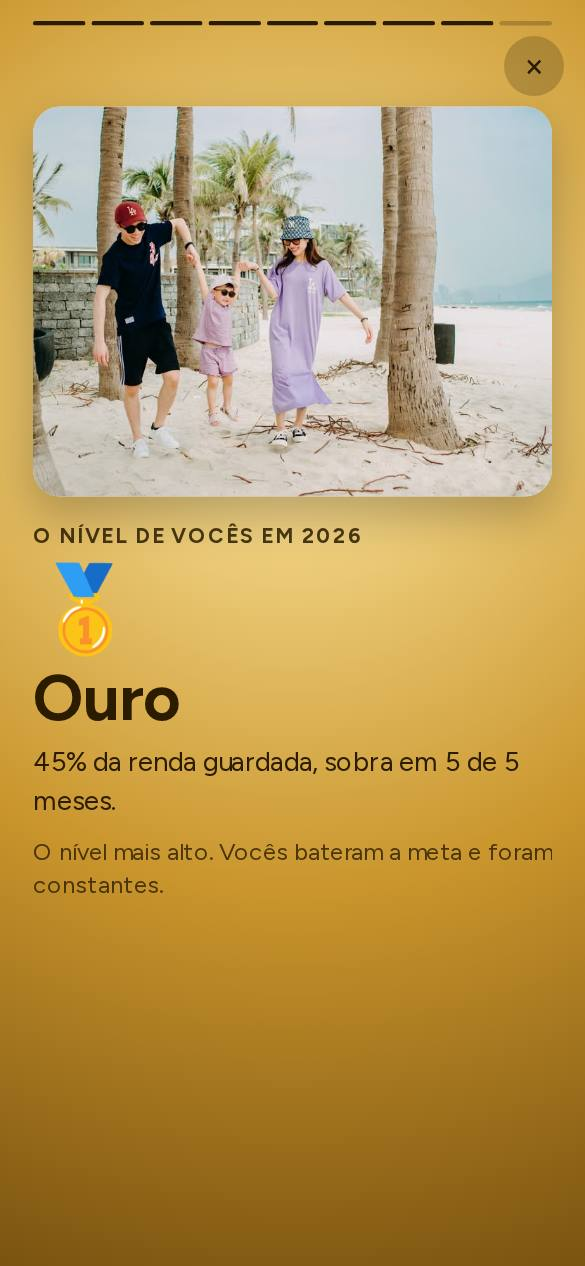
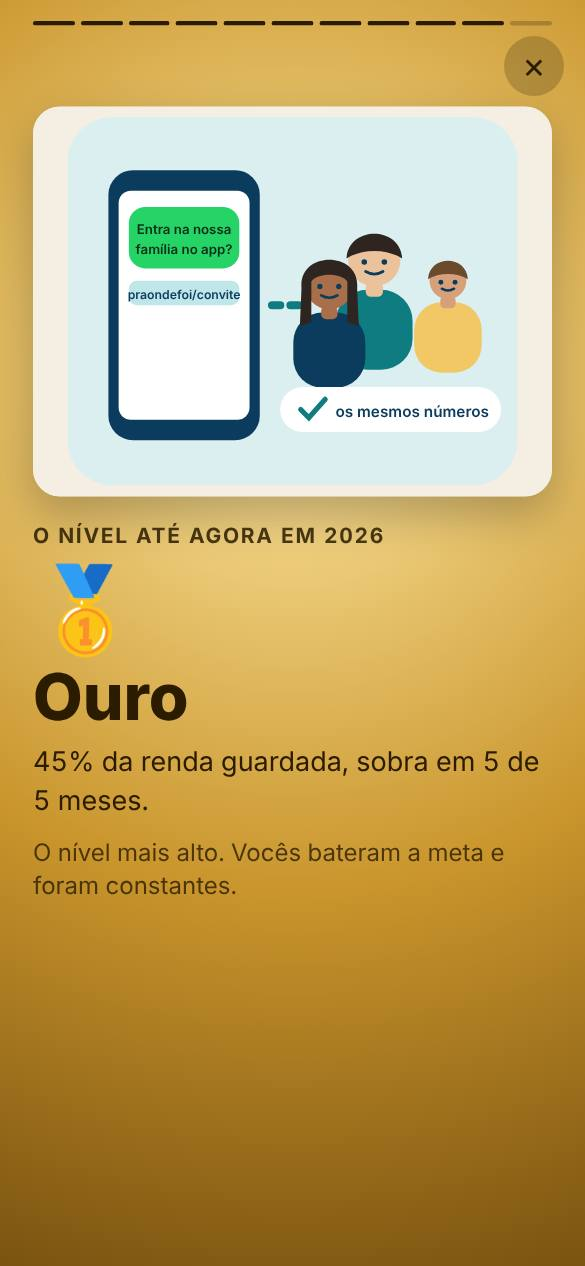
v97: year retrospective updated at every closed month (3+ complete months), first-time screen, evolution and where to improve, year-end edition in January
Claude-Session: https://claude.ai/code/session_01HTxyDPPEQrF1SknoQ9axHM

diff --git a/public/js/wrapped.js b/public/js/wrapped.js
@@ -2,7 +2,7 @@
 // One idea per screen, big number, its own color; tap right/left (or swipe) to move, progress bars on top.
 // The level (bronze, silver, gold, by percentage) is the high point; the last screen shares without amounts.
 import { S, goals, settings, patrimonio, projectFor, needPmtFor } from './state.js';
-import { yearRetro, yearLevel, yearMilestones } from './lib/closing.js';
+import { yearRetro, yearLevel, yearMilestones, yearOpportunities, yearEvolution } from './lib/closing.js';
 import { feesOf } from './lib/bankfees.js';
 import { brl0, pct, esc, mLong } from './lib/format.js';
 import { toast } from './ui.js';
@@ -12,14 +12,33 @@ import { track } from './usage.js';
 const MES = k => mLong(k).split(' de ')[0];
 const cap = s => s[0].toUpperCase() + s.slice(1);
 
+// The month that closes the year so far ("até outubro"), and whether the year is complete (the year-end edition).
+export const retroUpTo = r => r.months[r.months.length - 1];
+const firstTime = () => { try { return !Object.keys(localStorage).some(k => k.startsWith(`fin.retro.${S.hh?.id || ''}.`)); } catch (e) { return false; } };
+
+// Which edition the family has to see: it changes every time a month of the year is closed ("até outubro").
+// Without any closed month, the first one appears once there are 3 complete months.
+export function retroVersion(year) { return Object.keys(settings().closed || {}).filter(k => k.startsWith(year + '-')).sort().pop() || 'base'; }
+export function retroSeen(year) { try { return localStorage.getItem(`fin.retro.${S.hh?.id || ''}.${year}`) === retroVersion(year); } catch (e) { return false; } }
+
+// Savings rate per month, with the goal line: the year's evolution at a glance.
+function evoSVG(e, meta) {
+  const W = 320, H = 150, n = e.months.length, bw = W / n * 0.62, mx = Math.max(0.3, ...e.months.map(m => m.tx)), mn = Math.min(0, ...e.months.map(m => m.tx));
+  const y = v => 10 + (mx - v) / (mx - mn) * (H - 30), z = y(0);
+  return `<svg class="w-evo" viewBox="0 0 ${W} ${H}" role="img" aria-label="Quanto guardaram em cada mês">${meta ? `<line x1="0" x2="${W}" y1="${y(meta)}" y2="${y(meta)}" stroke="currentColor" stroke-dasharray="4 4" opacity=".6"/>` : ''}<line x1="0" x2="${W}" y1="${z}" y2="${z}" stroke="currentColor" opacity=".5"/>
+    ${e.months.map((m, i) => { const x = i * W / n + (W / n - bw) / 2, top = Math.min(y(m.tx), z), h = Math.max(2, Math.abs(y(m.tx) - z)); return `<rect x="${x.toFixed(1)}" y="${top.toFixed(1)}" width="${bw.toFixed(1)}" height="${h.toFixed(1)}" rx="3" fill="${m.tx < 0 ? '#FFB4B4' : 'currentColor'}"/><text x="${(x + bw / 2).toFixed(1)}" y="${H - 4}" text-anchor="middle" font-size="11" fill="currentColor">${MES(m.month).slice(0, 1).toUpperCase()}</text>`; }).join('')}</svg>`;
+}
+
 export function wrappedSlides(year) {
   const G = goals(), st = settings();
   const r = yearRetro({ year, txs: S.txs, idx: S.catIdx, goals: G, fees: feesOf(S.txs.filter(t => t.month.startsWith(year + '-'))), closed: st.closed || {} });
   if (!r.n) return { r, slides: [] };
   const lv = yearLevel(r), ms = yearMilestones({ year, per: r.per, txs: S.txs, idx: S.catIdx, debts: st.debts || [] });
   const fam = /^fam[ií]lia\b/i.test(S.hh.name || '') ? S.hh.name : 'família ' + (S.hh.name || '');
-  const slides = [];
-  slides.push({ bg: 'w-intro', img: 'y_intro', html: `<p class="w-k">Retrospectiva</p><h2 class="w-h">O ${year} da ${esc(fam)}</h2><p class="w-t">${r.n === 12 ? 'O ano inteiro' : `${r.n} meses`} de números de verdade: ${r.count.toLocaleString('pt-BR')} lançamentos, ${r.closedCount ? `${r.closedCount} ${r.closedCount > 1 ? 'meses fechados' : 'mês fechado'}` : 'sem anotar nada à mão'}.</p><p class="w-tap">Toque para continuar →</p>` });
+  const slides = [], final = r.n === 12 || (retroUpTo(r) === year + '-12'), upTo = MES(retroUpTo(r)), first = firstTime();
+  // First time: what this is and how it works, before any number.
+  if (first) slides.push({ bg: 'w-intro', img: 'y_intro', html: `<p class="w-k">A primeira retrospectiva de vocês</p><h2 class="w-h">O que os seus meses contam</h2><p class="w-t">Com os meses que vocês já mandaram, o app montou o ano até aqui: quanto guardaram, os marcos, o nível e onde dá para melhorar.</p><p class="w-t w-dim">A cada mês fechado, ela se atualiza. Em janeiro vem o fechamento do ano, completo.</p><p class="w-tap">Toque para continuar →</p>` });
+  slides.push({ bg: final ? 'w-final' : 'w-intro', img: first ? null : 'y_intro', html: `<p class="w-k">${final ? 'Fechamento do ano' : `Retrospectiva até ${upTo}`}</p><h2 class="w-h">O ${year} da ${esc(fam)}</h2><p class="w-t">${r.n === 12 ? 'O ano inteiro' : `${r.n} meses`} de números de verdade: ${r.count.toLocaleString('pt-BR')} lançamentos, ${r.closedCount ? `${r.closedCount} ${r.closedCount > 1 ? 'meses fechados' : 'mês fechado'}` : 'sem anotar nada à mão'}.</p><p class="w-tap">Toque para continuar →</p>` });
   slides.push({ bg: r.res >= 0 ? 'w-green' : 'w-red', img: r.res >= 0 ? 'y_saved' : 'y_red', html: `<p class="w-k">Vocês guardaram</p><div class="w-big">${brl0(r.res)}</div><p class="w-t">${pct(r.tx)} do que ganharam${r.meta ? `. A meta era ${pct(r.meta)}` : ''}.</p><p class="w-t">Em ${r.positive} de ${r.n} meses sobrou dinheiro.</p>` });
   if (r.best) slides.push({ bg: 'w-blue', img: r.best.res > 0 ? 'y_best' : 'y_red', html: `<p class="w-k">O melhor mês</p><div class="w-big">${cap(MES(r.best.month))}</div><p class="w-t">${brl0(r.best.res)} de sobra.</p>${r.worst && r.worst.month !== r.best.month ? `<p class="w-t w-dim">O mais difícil foi ${MES(r.worst.month)} (${brl0(r.worst.res)}).</p>` : ''}` });
   if (r.top.length) slides.push({ bg: 'w-orange', img: 'y_where', html: `<p class="w-k">Para onde mais foi</p><div class="w-big w-mid">${esc(r.top[0].name)}</div><p class="w-t">${brl0(r.top[0].value)}, ${pct(r.top[0].share)} das despesas.</p><ol class="w-list">${r.top.slice(1, 5).map(t => `<li>${esc(t.name)} <span>${brl0(t.value)}</span></li>`).join('')}</ol>` });
@@ -37,17 +56,23 @@ export function wrappedSlides(year) {
     slides.push({ bg: 'w-teal', img: 'y_home', html: `<p class="w-k">O patrimônio de vocês hoje</p><div class="w-big">${brl0(P.total)}</div>${inv ? `<p class="w-t w-dim">Investimentos: ${brl0(inv.value)}${/estimado/.test(inv.note) ? ' (estimado)' : ''}.</p>` : ''}${dream}` });
   }
   if (ms.length) slides.push({ bg: 'w-pink', img: 'y_moments', html: `<p class="w-k">Os marcos do ano</p><ul class="w-ms">${ms.map(m => `<li><span class="w-mi">${m.icon}</span><span><strong>${esc(m.title)}</strong><br>${esc(m.text)}</span></li>`).join('')}</ul>` });
+  // Evolution through the year (4 months or more).
+  const evo = yearEvolution(r);
+  if (evo) { const better = evo.second > evo.first + 0.01, worse = evo.second < evo.first - 0.01; slides.push({ bg: 'w-blue', html: `<p class="w-k">A evolução no ano</p>${evoSVG(evo, r.meta)}<p class="w-t">${better ? `Melhoraram: de ${pct(evo.first)} para ${pct(evo.second)} da renda guardada, da primeira para a segunda metade.` : worse ? `Caiu de ${pct(evo.first)} para ${pct(evo.second)} da renda guardada, da primeira para a segunda metade.` : `Constantes: cerca de ${pct(evo.second)} da renda guardada nas duas metades.`}</p>${r.meta ? '<p class="w-t w-dim">A linha tracejada é a meta de vocês.</p>' : ''}` }); }
+  // Where they can do better: for everyone, first for whoever was in the red.
+  const ops = yearOpportunities({ r, txs: S.txs, idx: S.catIdx });
+  if (ops.length) slides.push({ bg: r.res < 0 || r.positive < r.n ? 'w-orange' : 'w-teal', html: `<p class="w-k">${r.res < 0 ? 'O caminho para sair do vermelho' : 'Onde dá para melhorar'}</p><ul class="w-ms">${ops.map(o => `<li><span class="w-mi">${o.icon}</span><span><strong>${esc(o.title)}</strong><br>${esc(o.text)}</span></li>`).join('')}</ul>` });
   // The level: the high point.
   const nxt = lv.next ? (lv.next.level === 'ouro' ? `Para o ouro: guardar ${pct(r.meta || 0.2)} da renda${lv.next.steady ? '' : ' e ter sobra em 3 de cada 4 meses'}. Faltam ${Math.max(1, Math.round(lv.next.points * 100))} pontos.` : lv.next.level === 'prata' ? `Para a prata: guardar 10% da renda. Faltam ${Math.max(1, Math.round(lv.next.points * 100))} pontos.` : 'O próximo passo é fechar o ano com sobra. Dá para começar este mês.') : 'O nível mais alto. Vocês bateram a meta e foram constantes.';
-  slides.push({ bg: 'w-lv-' + lv.level, img: lv.level === 'inicio' ? 'y_start' : 'y_level', html: `<p class="w-k">O nível de vocês em ${year}</p><div class="w-medal" aria-hidden="true">${{ ouro: '🥇', prata: '🥈', bronze: '🥉', inicio: '🌱' }[lv.level]}</div><div class="w-big">${lv.label}</div><p class="w-t">${pct(r.tx)} da renda guardada, sobra em ${r.positive} de ${r.n} meses.</p><p class="w-t w-dim">${nxt}</p>` });
+  slides.push({ bg: 'w-lv-' + lv.level + (final && lv.level !== 'inicio' ? ' w-confetti' : ''), img: lv.level === 'inicio' ? 'y_start' : 'y_level', html: `<p class="w-k">${final ? 'O nível de vocês em' : 'O nível até agora em'} ${year}</p><div class="w-medal" aria-hidden="true">${{ ouro: '🥇', prata: '🥈', bronze: '🥉', inicio: '🌱' }[lv.level]}</div><div class="w-big">${lv.label}</div><p class="w-t">${pct(r.tx)} da renda guardada, sobra em ${r.positive} de ${r.n} meses.</p><p class="w-t w-dim">${nxt}</p>` });
   slides.push({ bg: 'w-end', img: 'y_end', html: `<p class="w-k">Compartilhe</p><h2 class="w-h">${lv.level === 'inicio' ? 'Um ano de começo.' : `${lv.label} em ${year}.`}</h2><p class="w-t">Só o nível e a porcentagem guardada vão junto, sem valores.</p><div class="w-btns"><button class="btn primary" type="button" id="wShare">Compartilhar</button><button class="btn" type="button" id="wPage">Ver tudo numa página</button></div>` });
-  return { r, lv, slides };
+  return { r, lv, slides, final };
 }
 
 export function openWrapped(year) {
-  const { r, lv, slides } = wrappedSlides(year);
+  const { r, lv, slides, final } = wrappedSlides(year);
   if (!slides.length) { toast('Ainda não há meses completos (com o extrato da conta) neste ano.', 'info'); return; }
-  track('retro.ano'); try { localStorage.setItem(`fin.retro.${S.hh?.id || ''}.${year}`, '1'); } catch (e) { /* private mode */ }
+  track('retro.ano'); try { localStorage.setItem(`fin.retro.${S.hh?.id || ''}.${year}`, retroVersion(year)); } catch (e) { /* private mode */ }
   // Load every photo now, so each screen shows its picture right away.
   const tmp = document.createElement('div'); slides.forEach(s => { if (s.img) { tmp.innerHTML = photo(s.img, { w: 900 }); const im = tmp.querySelector('img'); if (im) { const p = new Image(); p.srcset = im.srcset; p.sizes = im.sizes; p.src = im.src; } } });
   let i = 0;

diff --git a/public/js/views/resumo.js b/public/js/views/resumo.js
@@ -8,6 +8,7 @@ import { settings, closeDay } from '../state.js';
 import { renderPendingPayments } from '../debtpay.js';
 import { installmentPlan } from '../lib/parcelas.js';
 import { rankFeed } from '../lib/homefeed.js';
+import { retroVersion, retroSeen } from '../wrapped.js';
 import { feesOf, FEE_LABEL } from '../lib/bankfees.js';
 import { addM } from '../lib/format.js';
 import { mergeSuggestions } from '../lib/catmerge.js';
@@ -127,9 +128,7 @@ export function render(el) {
   el.querySelector('#feesMore')?.addEventListener('toggle', e => { if (e.target.open) track('inicio.tarifas'); });
   renderSteps(el.querySelector('#stepsBox'));
   renderInsights(el.querySelector('#insights'));
-  // The year retrospective: a card in December and January; in "Mais detalhes" the whole year.
-  const td = todayISO(), ry = td.slice(5, 7) === '01' ? String(+td.slice(0, 4) - 1) : td.slice(0, 4), rc = el.querySelector('#retroCard');
-  if (rc && /^(12|01)$/.test(td.slice(5, 7)) && ks.some(k => k.startsWith(ry))) rc.innerHTML = `<article class="closecard"><div><span class="tiny">Retrospectiva</span><h3>O ${ry} de vocês</h3><p class="small">Quanto guardaram, o melhor mês, para onde mais foi e o que o banco cobrou.</p></div><button class="btn primary" type="button" data-retro="${ry}">Ver a retrospectiva</button></article>`;
+  // The year retrospective: on top while there is a new edition (retroNotice); always in "Mais detalhes".
   el.querySelectorAll('[data-retro]').forEach(b => b.onclick = () => import('../wrapped.js').then(m => m.openWrapped(b.dataset.retro)));
   if (!yr) renderBudget(el.querySelector('#budgetBox'), cats);
 }
@@ -156,9 +155,16 @@ export function homeInsights() {
 // Until the family opens it once: "A retrospectiva de 2026 está pronta", on top (it is new) with the way to it.
 export const retroKey = y => `fin.retro.${S.hh?.id || ''}.${y}`;
 function retroNotice() {
-  const y = todayISO().slice(0, 4), n = new Set(S.txs.filter(t => t.month.startsWith(y + '-') && t.source === 'conta' && !t.manual).map(t => t.month)).size;
-  let seen = false; try { seen = localStorage.getItem(retroKey(y)) === '1'; } catch (e) { /* private mode */ }
-  return n >= 3 && !seen ? [{ id: 'retro', tone: 'good', title: `A retrospectiva de ${y} está pronta`, text: `${n} meses em uma página: quanto vocês guardaram, o melhor mês, para onde mais foi o dinheiro e o que o banco cobrou.`, action: { label: 'Ver a retrospectiva', go: ['retro', y] } }] : [];
+  const td = todayISO(), out = [];
+  // In January, the year that ended (year-end edition); during the year, the current one up to the last closed month.
+  for (const y of td.slice(5, 7) === '01' ? [String(+td.slice(0, 4) - 1), td.slice(0, 4)] : [td.slice(0, 4)]) {
+    const ms = [...new Set(S.txs.filter(t => t.month.startsWith(y + '-') && t.source === 'conta' && !t.manual).map(t => t.month))].sort();
+    if (ms.length < 3 || retroSeen(y)) continue;
+    const last = ms[ms.length - 1], full = last === y + '-12', upTo = mLong(last).split(' de ')[0];
+    out.push({ id: 'retro', tone: 'good', title: full ? `O fechamento de ${y} está pronto` : `A retrospectiva de ${y} até ${upTo} está pronta`, text: full ? 'O ano completo: quanto guardaram, a evolução mês a mês, os marcos, o nível e onde dá para melhorar em ' + (+y + 1) + '.' : `${ms.length} meses em telas: quanto guardaram, a evolução, os marcos, o nível até agora e onde dá para melhorar. Ela se atualiza a cada mês fechado.`, action: { label: 'Ver a retrospectiva', go: ['retro', y] } });
+    break;
+  }
+  return out;
 }
 // What the family saw last time (per family, on this device): what is new or changed goes to the top.
 const SEEN = () => 'fin.feed.' + (S.hh?.id || '');

diff --git a/public/js/lib/faq.js b/public/js/lib/faq.js
@@ -28,7 +28,7 @@ export const FAQ = [
   { id: 'mais', t: 'numeros', q: 'Onde vejo assinaturas, patrimônio e quem paga o quê?', a: 'No fim do Início, toque em "Mais detalhes". Lá ficam as assinaturas (e os aumentos de preço), quem pagou o quê, quanto guardaram mês a mês, o patrimônio e o sonho de vocês.' },
   { id: 'parcelas', t: 'numeros', q: 'Como vejo quanto já devo em parcelas nos próximos meses?', a: 'No Início, em Próxima fatura: o total das parcelas que ainda vão vir e até quando, as barras de cada mês e, em "As que mais pesam", cada compra parcelada com quantas parcelas faltam. Vem da última fatura que vocês mandaram.' },
   { id: 'tarifas', t: 'numeros', q: 'Quanto pago de juros, anuidade e tarifas?', a: 'No Início, em "Quanto o banco cobrou": o total dos últimos 12 meses, por tipo, e cada cobrança em "O que foi cobrado". Vem da fatura e do extrato. Se aparecer juros ou multa, o app avisa.' },
-  { id: 'retro_ano', t: 'numeros', q: 'Onde vejo o resumo do ano?', a: 'Na retrospectiva: aparece no topo do Início até você abrir, e depois fica em Início → Mais detalhes → Retrospectiva do ano. São telas com o que guardaram, o melhor mês, o patrimônio, os marcos e o nível do ano. Conta só os meses com o extrato da conta, e o Compartilhar manda só o nível e a porcentagem, sem valores.' },
+  { id: 'retro_ano', t: 'numeros', q: 'Onde vejo o resumo do ano?', a: 'Na retrospectiva do ano, que se atualiza a cada mês fechado (com 3 meses completos ou mais) e sobe no topo do Início até você abrir; em janeiro vem o fechamento do ano completo. Também tem a evolução mês a mês e onde dá para melhorar. e depois fica em Início → Mais detalhes → Retrospectiva do ano. São telas com o que guardaram, o melhor mês, o patrimônio, os marcos e o nível do ano. Conta só os meses com o extrato da conta, e o Compartilhar manda só o nível e a porcentagem, sem valores.' },
   { id: 'niveis', t: 'numeros', q: 'Como funciona o nível bronze, prata e ouro?', a: 'É pela porcentagem da renda que vocês guardaram no ano, então vale para qualquer renda. Bronze: fecharam o ano com sobra. Prata: guardaram 10% ou mais. Ouro: guardaram a meta de vocês (em Metas) e tiveram sobra em pelo menos 3 de cada 4 meses. A retrospectiva diz quanto falta para o próximo nível.' },
   { id: 'lembrete_fatura', t: 'numeros', q: 'O app me lembra de mandar a fatura?', a: 'Sim. De 1 a 6 dias depois que a fatura do cartão fecha, se ela ainda não chegou ao app, vem um aviso no celular (uma vez por fatura) e o Início mostra o lembrete. Tocar leva direto para mandar o PDF; dá para mandar os de todos os cartões de uma vez. O dia de fechamento fica em menu ☰ → Família e metas → Metas.' },
   { id: 'financiamento', t: 'numeros', q: 'Paguei uma amortização do financiamento. Como o saldo diminui?', a: 'Mande o comprovante em Lançar (ou fale "amortizei X do financiamento"). Na revisão, o app pergunta "Isso abate um financiamento?" já com o mais provável escolhido: salve e o saldo cai na hora, o patrimônio líquido sobe e o lançamento vai para "Amortização de financiamento", fora da sobra. Se o pagamento já estava salvo, o Início e Patrimônio e dívidas mostram "Pagamentos que parecem amortização" para confirmar. Também dá para registrar à mão em menu ☰ → Família e metas → Patrimônio e dívidas → Registrar uma amortização.' },

diff --git a/public/js/lib/closing.js b/public/js/lib/closing.js
@@ -112,3 +112,28 @@ export function yearMilestones({ year, per, txs, idx, debts = [] }) {
   if (best[0] >= 3) out.push({ id: 'sequencia', icon: '🔥', title: `${best[0]} meses seguidos no azul`, text: `de ${mN(per[best[1] - best[0] + 1].month)} a ${mN(per[best[1]].month)}.` });
   return out.slice(0, 3);
 }
+
+// Where the family can do better, from the year's own numbers (up to 3, the most useful first):
+// months in the red, the gap to the goal, a category that grew from the first to the second half, the bank's charges.
+export function yearOpportunities({ r, txs, idx }) {
+  const out = [], of = k => txs.filter(t => t.month === k), meta = r.meta || 0.2;
+  const red = (r.per || []).filter(c => c.res < 0);
+  if (red.length) out.push({ id: 'vermelho', icon: '🧭', title: `${red.length} ${red.length > 1 ? 'meses' : 'mês'} no vermelho`, text: `${(s => s[0].toUpperCase() + s.slice(1))(red.map(c => MES[+c.month.slice(5) - 1]).join(', '))}. Combinar um limite por categoria (menu ☰ → Família e metas → Metas) avisa antes de passar.` });
+  if (r.renda > 0 && r.tx < meta && r.n) { const gap = (meta * r.renda - r.res) / r.n; out.push({ id: 'meta', icon: '🎯', title: `Para a meta de ${Math.round(meta * 100)}%, faltaram ${R0(gap)} por mês`, text: 'É quanto precisaria sobrar a mais em cada mês. Cortar um pouco das duas categorias que mais pesam costuma bastar.' }); }
+  // A day-to-day category (not fixed) that grew from the first to the second half of the year.
+  if (r.n >= 4) {
+    const h = Math.floor(r.n / 2), a = r.months.slice(0, h), b = r.months.slice(h), avg = (ks, n) => ks.reduce((s, k) => s + (byCategory(of(k), idx)[n] || 0), 0) / ks.length;
+    const names = [...new Set(txs.filter(t => r.months.includes(t.month)).map(t => t.category))].filter(n => { const c = idx.get(n); return c && c.grp === 'dia' && !c.recurring && !c.financing && !/financ/i.test(n); });
+    const up = names.map(n => ({ n, a: avg(a, n), b: avg(b, n) })).filter(x => x.a >= 200 && x.b - x.a >= 100 && x.b >= x.a * 1.15).sort((x, y) => (y.b - y.a) - (x.b - x.a))[0];
+    if (up) out.push({ id: 'subiu', icon: '📊', title: `${up.n} subiu ${R0(up.b - up.a)} por mês`, text: `De ${R0(up.a)} para ${R0(up.b)} por mês, da primeira para a segunda metade do ano. Voltar ao que era deixa ${R0((up.b - up.a) * 12)} a mais por ano.` });
+  }
+  if (r.fees >= 100) out.push({ id: 'banco', icon: '🏦', title: `${R0(r.fees)} para o banco`, text: 'Em juros, IOF, anuidade e tarifas. Pedir isenção da anuidade e trocar o pacote de tarifas costuma zerar boa parte.' });
+  return out.slice(0, 3);
+}
+
+// Evolution in the year: savings rate per month and the first half against the second.
+export function yearEvolution(r) {
+  if (!r.per || r.per.length < 4) return null;
+  const h = Math.floor(r.per.length / 2), rate = ps => { const res = ps.reduce((a, c) => a + c.res, 0), renda = ps.reduce((a, c) => a + (c.tx ? c.res / c.tx : 0), 0); return renda > 0 ? res / renda : 0; };
+  return { first: rate(r.per.slice(0, h)), second: rate(r.per.slice(h)), months: r.per.map(c => ({ month: c.month, tx: c.tx })) };
+}

diff --git a/public/js/lib/docsections.js b/public/js/lib/docsections.js
@@ -162,7 +162,14 @@ export const DOC_RETRO_INICIO = { id: 'retro_inicio_doc', title: 'Retrospectiva 
 - Depois de salvar em Lançar (comprovante, fatura, extrato ou planilha), se surgiu um aviso importante ou bom, o app diz: "<título>. Veja no Início."
 - Riscos que já sobem: fatura acima do limite, orçamento estourado ou perto, guardaram menos que a meta, mês no vermelho, juros na fatura. Um aviso de risco de não bater a meta no mês, olhando para frente, ainda precisa de uma conta validada (backlog).` };
 
-export const DOC_HISTORIAS = { id: 'retro_historias_doc', title: 'Retrospectiva em histórias e níveis de economia', body: `- A retrospectiva abre em telas cheias, uma ideia por tela (toque à direita ou deslize para avançar; à esquerda volta): abertura, quanto guardaram, melhor e pior mês, para onde mais foi, maior gasto e o que o banco cobrou, patrimônio e o sonho (se o ritmo do ano leva até lá ou quanto precisa por mês), marcos do ano, o nível e compartilhar. "Ver tudo numa página" abre a página.
+export const DOC_HISTORIAS = { id: 'retro_historias_doc', title: 'Retrospectiva em histórias e níveis de economia', body: `## Quando aparece (v97)
+- É do ano e se atualiza mês a mês: só com 3 meses completos (extrato da conta) ou mais. Cada mês fechado gera uma edição nova ("A retrospectiva de 2026 até outubro está pronta"), que sobe no topo do Início até ser aberta. Sem nenhum mês fechado, a primeira aparece com 3 meses completos. Ao fechar o mês, o aviso diz que a retrospectiva foi atualizada.
+- Em janeiro: "O fechamento de 2026 está pronto", a edição completa e chamativa (fundo especial, confete no nível), com a evolução e onde melhorar para o ano seguinte.
+- Primeira vez: uma tela antes dos números explica o que é e que ela se atualiza a cada mês fechado.
+## Telas
+- A retrospectiva abre em telas cheias, uma ideia por tela (toque à direita ou deslize para avançar; à esquerda volta): abertura, quanto guardaram, melhor e pior mês, para onde mais foi, maior gasto e o que o banco cobrou, patrimônio e o sonho (se o ritmo do ano leva até lá ou quanto precisa por mês), marcos do ano, o nível e compartilhar. "Ver tudo numa página" abre a página.
+- Evolução (4 meses ou mais): barras da % guardada em cada mês, com a linha da meta, e a comparação da primeira com a segunda metade do ano.
+- Onde dá para melhorar (até 3, para todos; "O caminho para sair do vermelho" para quem fechou no vermelho): meses no vermelho e o limite por categoria; quanto faltou por mês para a meta; a categoria do dia a dia que mais subiu da primeira para a segunda metade (sem fixas, financiamento ou categorias novas); o que o banco cobrou (a partir de R$ 100). Validado com os dados reais: junho no vermelho, R$ 3.330 por mês para a meta de 20%, Transporte de R$ 1.399 para R$ 1.982.
 ## Níveis (por porcentagem, justo para qualquer renda)
 | Nível | Regra |
 | Ouro | Guardaram a meta da família (ex.: 20%) ou mais e tiveram sobra em pelo menos 3 de cada 4 meses |

diff --git a/public/js/admin/flows.js b/public/js/admin/flows.js
@@ -14,6 +14,7 @@ export const SCREENS = {
   inicio_exemplo: { title: 'Mês de exemplo', where: 'Início, enquanto a família não tem dados', key: null },
   inicio: { title: 'Início', where: 'Aba Início', key: 'aba.inicio' },
   inicio_mais: { title: 'Mais detalhes', where: 'Início → fim da tela', key: 'aba.inicio' },
+  retro_evolucao: { title: 'Retrospectiva: evolução e onde melhorar', where: 'Telas da retrospectiva, antes do nível', key: 'retro.ano' },
   retro_historias: { title: 'Retrospectiva em histórias (nível)', where: 'Início: aviso "A retrospectiva está pronta" ou Mais detalhes → Retrospectiva do ano', key: ['retro.ano', 'retro.compartilhar'] },
   retro_ano: { title: 'Retrospectiva do ano', where: 'Início → Mais detalhes → Retrospectiva do ano (em dezembro e janeiro, cartão no topo)', key: ['retro.ano', 'retro.compartilhar'] },
   fechar: { title: 'Fechar o mês', where: 'Cartão "Hora de fechar o mês" no Início', key: 'aba.fechar' },
@@ -72,7 +73,7 @@ export const FLOWS = [
   { id: 'geral', title: 'Visão geral', desc: 'Todas as telas, agrupadas por onde ficam.', map: [
     { title: 'Entrada', screens: ['boas_vindas', 'cadastro', 'nome', 'biometria', 'familia', 'apresentacao', 'tour', 'alpha'] },
     { title: 'Abas', screens: ['inicio_exemplo', 'inicio', 'lancar', 'graficos', 'perguntar', 'extrato'] },
-    { title: 'Dentro das abas', screens: ['inicio_mais', 'retro_historias', 'retro_ano', 'fechar', 'lancar_falar', 'lancar_salvo', 'lancar_nota', 'lancar_pdf', 'lendo', 'lancar_revisao', 'varios_arquivos', 'planilha', 'categoria', 'anotacao', 'extrato_categoria', 'juntar_categorias', 'perguntar_resposta'] },
+    { title: 'Dentro das abas', screens: ['inicio_mais', 'retro_evolucao', 'retro_historias', 'retro_ano', 'fechar', 'lancar_falar', 'lancar_salvo', 'lancar_nota', 'lancar_pdf', 'lendo', 'lancar_revisao', 'varios_arquivos', 'planilha', 'categoria', 'anotacao', 'extrato_categoria', 'juntar_categorias', 'perguntar_resposta'] },
     { title: 'Menu ☰', screens: ['menu', 'menu_familia', 'menu_divisao', 'menu_metas', 'menu_patrimonio', 'menu_categorias', 'menu_avisos', 'menu_applepay', 'menu_contexto', 'menu_duvidas', 'menu_opiniao', 'menu_ajuda', 'menu_backup', 'menu_sobre', 'menu_conta'] },
     { title: 'Lançar sem abrir o app', screens: ['menu_applepay', 'lancar_comprovante'] },
     { title: 'Opinião e dúvidas', screens: ['opiniao_confirmar', 'opiniao_enviada', 'duvidas_resposta'] },

diff --git a/public/js/views/fechar.js b/public/js/views/fechar.js
@@ -18,7 +18,7 @@ const cap = s => s[0].toUpperCase() + s.slice(1);
 function renderYear(el, year) {
   const r = yearRetro({ year, txs: S.txs, idx: S.catIdx, goals: goals(), fees: feesOf(S.txs.filter(t => t.month.startsWith(year + '-'))), closed: settings().closed || {} });
   const MES = k => mLong(k).split(' de ')[0];
-  track('retro.ano'); try { localStorage.setItem(`fin.retro.${S.hh?.id || ''}.${year}`, '1'); } catch (e) { /* private mode */ }
+  track('retro.ano');
   el.innerHTML = `<button class="linkbtn small" type="button" data-back>← Voltar ao Início</button>
   <section class="panel stack retro yretro">
     <span class="tiny muted">Retrospectiva</span><h2>${year} ${/^fam[ií]lia\b/i.test(S.hh.name || '') ? 'da ' + esc(S.hh.name) : 'da família ' + esc(S.hh.name || '')}</h2>
@@ -149,7 +149,7 @@ export function render(el) {
     const by = (S.user?.user_metadata?.display_name || '').split(' ')[0];
     await save({ closed: { ...(settings().closed || {}), [m]: { at: todayISO(), by, res: round2(r.res), tx: Math.round(r.tx * 1000) / 1000 } } });
     notifyFamily('closed', { month: m });
-    track('fechar.mes'); toast(r.hitGoal ? 'Mês fechado. Vocês guardaram o que queriam!' : 'Mês fechado'); S.closeMonth = m; S.render();
+    track('fechar.mes'); toast((r.hitGoal ? 'Mês fechado. Vocês guardaram o que queriam!' : 'Mês fechado.') + (new Set(S.txs.filter(t => t.month.startsWith(m.slice(0, 4)) && t.source === 'conta' && !t.manual).map(t => t.month)).size >= 3 ? ' A retrospectiva do ano foi atualizada no Início.' : '')); S.closeMonth = m; S.render();
   };
   const reopen = $('#clReopen');
   if (reopen) reopen.onclick = async e => {

diff --git a/public/js/lib/testbook.js b/public/js/lib/testbook.js
@@ -67,6 +67,9 @@ export const TESTS = [
   t('retro_ano', 'Início', 'v93', 'ambos', 'Retrospectiva do ano',
     ['Abra o app: no topo do Início, "A retrospectiva de 2026 está pronta" → Ver a retrospectiva.', 'Confira os números com a soma dos meses.', 'Toque em Compartilhar.', 'Volte ao Início: o aviso saiu do topo; a retrospectiva continua em Mais detalhes.'],
     'Guardaram, % da renda e meta, melhor e pior mês, maior gasto, o que o banco cobrou e as categorias. Compartilhar abre o WhatsApp (ou copia) só com a porcentagem e o convite, sem valores.', true),
+  t('retro_mensal', 'Início', 'v97', 'ambos', 'Retrospectiva atualizada a cada mês fechado',
+    ['Com 3 meses completos ou mais, abra o app: no topo, "A retrospectiva de 2026 até <mês> está pronta".', 'Na primeira vez, leia a tela de explicação.', 'Passe pela evolução e por "Onde dá para melhorar" e confira com os números.', 'Feche um mês (Fechar o mês) e volte ao Início.'],
+    'O aviso de fechar o mês diz que a retrospectiva foi atualizada, e ela volta ao topo do Início com o novo mês. As sugestões batem com os números (meses no vermelho, quanto faltou para a meta, a categoria que subiu).', true),
   t('retro_fotos', 'Início', 'v96', 'ambos', 'Fotos nas telas da retrospectiva',
     ['Abra a retrospectiva e passe todas as telas.', 'Teste também sem internet (modo avião) depois de abrir o app.'],
     'Cada tela tem uma foto que combina com o texto (preocupação só quando os números estão no vermelho). Sem internet, aparece a ilustração no lugar.'),

diff --git a/public/js/lib/releases.js b/public/js/lib/releases.js
@@ -341,4 +341,11 @@ export const RELEASES = [
   ] }, updateDocs: [DOC_HISTORIAS], addBacklog: [
     { id: 'retro_fotos', title: 'Fotos nas telas da retrospectiva', status: 'feito', origin: 'Luiz', effort: 'P', problem: 'As telas da retrospectiva só tinham texto e cor', cost: false, notes: 'Uma foto por tela, positiva ou de preocupação conforme os números; casais e famílias (o app não sabe o gênero de quem usa).', from: [], where: 'Retrospectiva do ano' },
   ] },
+  { id: 'r97', version: 'v97', at: '2026-11-05T04:53:00Z', backlog: [], news: { id: 'n20261105g', title: 'A retrospectiva do ano, mês a mês', items: [
+    'A retrospectiva agora se atualiza a cada mês fechado e sobe no Início para vocês verem o ano até ali.',
+    'Ganhou a evolução mês a mês e "onde dá para melhorar", com sugestões a partir dos números de vocês.',
+    'Em janeiro vem o fechamento do ano, completo.',
+  ] }, updateDocs: [DOC_HISTORIAS], addBacklog: [
+    { id: 'retro_mensal_fechamento', title: 'Retrospectiva do ano atualizada a cada mês fechado, fechamento do ano e onde melhorar', status: 'feito', origin: 'Luiz', effort: 'M', problem: 'A retrospectiva aparecia uma vez só e não mostrava a evolução nem o que fazer para melhorar', cost: false, notes: 'Edição nova a cada mês fechado (3 meses completos ou mais); fechamento do ano em janeiro; tela de primeira vez; evolução; oportunidades.', from: [], where: 'Início' },
+  ] },
 ];

diff --git a/public/sw.js b/public/sw.js
@@ -1,6 +1,6 @@
 // Service worker: caches the app shell so it opens fast and installs as an app.
 // Data and /api calls always go to the network.
-const VERSION = 'v96';
+const VERSION = 'v97';
 const SHELL = ['/', '/index.html', '/css/app.css', '/js/main.js', '/js/db.js', '/js/ai.js', '/js/ui.js', '/js/state.js', '/js/speech.js', '/js/tour.js', '/js/steps.js', '/js/onboarding.js', '/js/art.js', '/js/install.js', '/js/push.js', '/js/metrics.js', '/js/privacy.js', '/js/lib/recurring.js', '/js/lib/settle.js', '/js/photos.js', '/js/menu.js', '/js/coach.js', '/js/views/graficos.js', '/js/views/fechar.js', '/js/lib/closing.js', '/js/lib/charts.js', '/js/lib/receipt.js', '/js/lib/insights.js', '/js/lib/budget.js', '/js/lib/pricing.js', '/js/lib/faq.js', '/js/feedback.js', '/js/usage.js', '/js/lib/navlog.js', '/js/applepay.js', '/js/lib/quick.js', '/js/lib/feed.js', '/js/messages.js', '/js/lib/news.js',
   '/js/lib/format.js', '/js/lib/calc.js', '/js/lib/categorize.js', '/js/lib/parse.js', '/js/lib/validate.js',
   '/js/views/resumo.js', '/js/views/lancar.js', '/js/views/perguntar.js', '/js/views/extrato.js', '/js/views/ajustes.js',

diff --git a/public/css/app.css b/public/css/app.css
@@ -685,3 +685,9 @@ label.consent[hidden]{display:none}
 #wrapped .w-slide:has(.w-photo){justify-content:flex-start;padding-top:54px}
 #wrapped .w-slide:has(.w-photo) .w-medal{font-size:56px}
 #wrapped .w-slide:has(.w-photo) .w-big{font-size:clamp(36px,11vw,64px)}
+
+#wrapped.w-final{background:linear-gradient(160deg,#1B1035,#6B2E8F 55%,#E0742E)}
+.w-evo{width:100%;max-width:420px;height:auto;margin:6px 0 4px}
+#wrapped.w-confetti::after{content:'🎉 ✨ 🎊 ✨ 🎉';position:absolute;top:64px;left:0;right:0;text-align:center;font-size:30px;letter-spacing:12px;animation:wConf 1.2s ease-out both;pointer-events:none}
+@keyframes wConf{from{transform:translateY(-30px) scale(.6);opacity:0}to{transform:none;opacity:1}}
+@media (prefers-reduced-motion:reduce){#wrapped.w-confetti::after{animation:none}}

diff --git a/public/js/usage.js b/public/js/usage.js
@@ -5,7 +5,7 @@ import * as db from './db.js';
 import { S } from './state.js';
 import { tapCell, tapLabel, cleanError } from './lib/navlog.js';
 
-export const APP_VERSION = 'v96';
+export const APP_VERSION = 'v97';
 const OK = /^[a-z_]{2,20}(\.[a-z_]{2,20})?$/;
 export const device = () => { const u = navigator.userAgent; return (/iphone|ipad/i.test(u) ? 'iPhone' : /android/i.test(u) ? 'Android' : /mac/i.test(u) ? 'Mac' : /windows/i.test(u) ? 'Windows' : 'Outro') + (window.matchMedia?.('(display-mode: standalone)').matches || navigator.standalone ? ' · app instalado' : ' · navegador'); };
 export const screenOf = () => S.tab === 'ajustes' ? 'menu.' + (S.sec || 'familia') : S.tab === 'resumo' ? 'inicio' : (S.tab || '');
